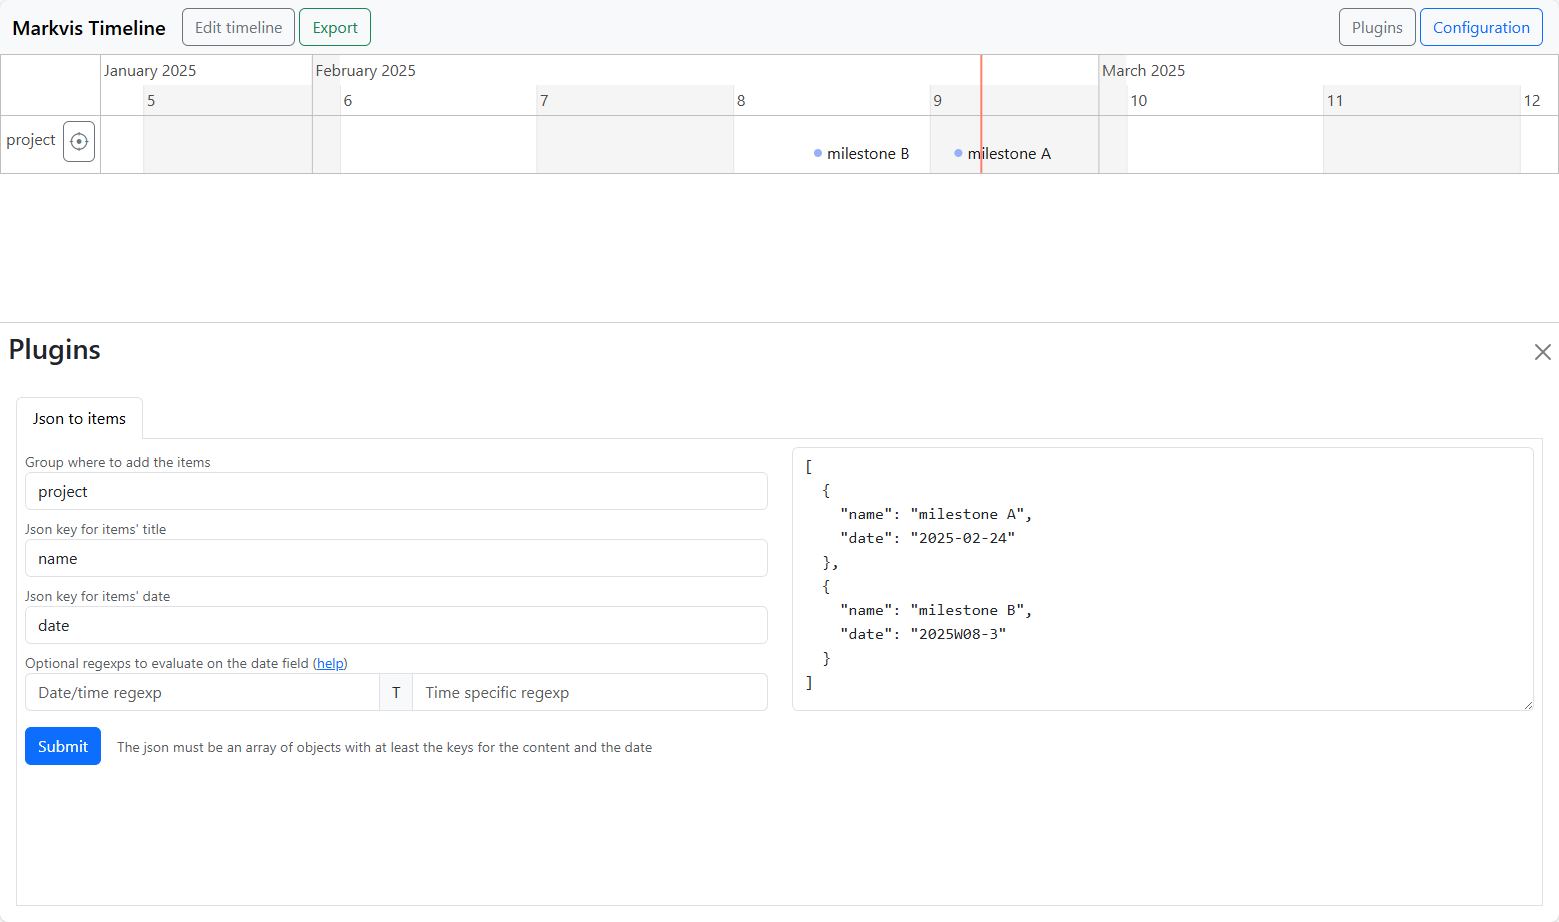
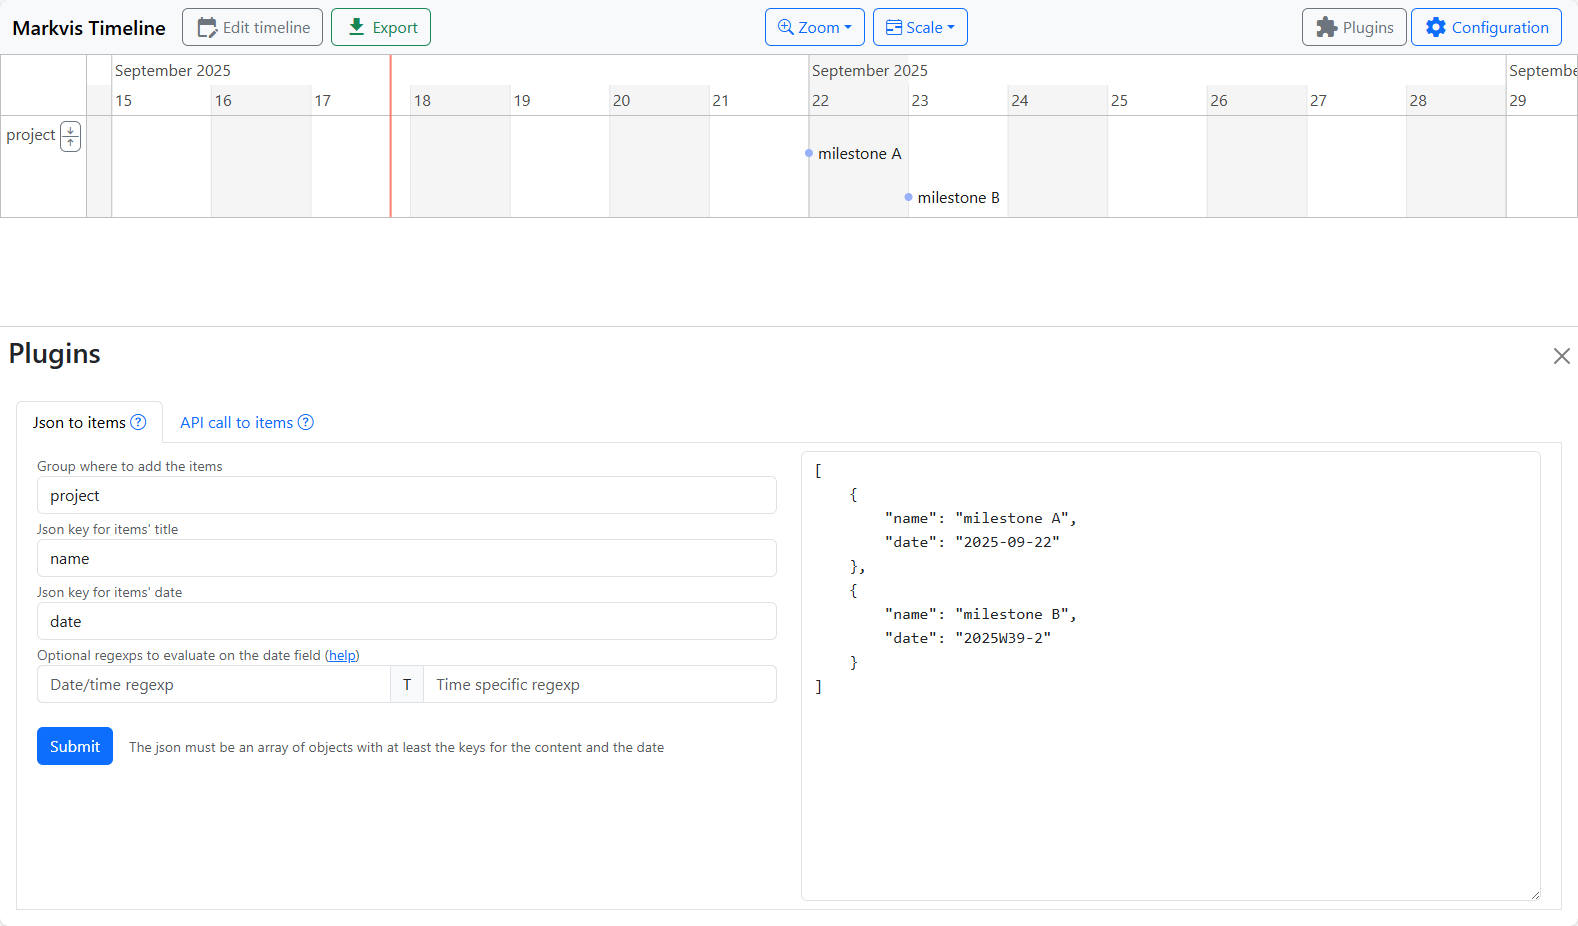
v0.13 add a top bar for easy access
squashed of the following:
- move dev mode switch to config pane
- Move zoom to the top navbar
- add some icons
- Avoid closing the menu when showWeekscale switch is fired
- add scale menu to the top bar + logic
- add outlined version of google font
- fixes for plugin API
- documentation update
- todos + cleaning
- fix defaultZoom call
- bump version

diff --git a/markvis-timeline.html b/markvis-timeline.html
@@ -1,7 +1,7 @@
 <!DOCTYPE html>
 <html>
 <head>
-    <title>Markvis-timeline v0.12</title>
+    <title>Markvis-timeline v0.13</title>
     
     <meta charset="utf-8">
     <meta name="viewport" content="width=device-width, initial-scale=1">
@@ -24,6 +24,7 @@
 
     <!-- Google fonts -->
     <link href="https://fonts.googleapis.com/icon?family=Material+Icons" rel="stylesheet">
+    <link href="https://fonts.googleapis.com/icon?family=Material+Icons+Outlined" rel="stylesheet">
 
     <style type="text/css">
         :root {
@@ -98,18 +99,41 @@
             <button class="navbar-toggler" type="button" data-bs-toggle="collapse" data-bs-target="#navbarSupportedContent" aria-controls="navbarSupportedContent" aria-expanded="false aria-label="Toggle navigation">
                 <span class="navbar-toggler-icon"></span>
             </button>
-            <div class="collapse navbar-collapse" id="navbarSupportedContent">
-                <div class="navbar-nav me-auto align-items-center gap-2">
-                    <button class="btn btn-outline-secondary" type="button" data-bs-toggle="offcanvas" data-bs-target="#drawer">Edit timeline</button>
-                    <button class="btn btn-outline-success" type="button" id="btn-export">Export</button>
-                    <div class="form-check form-switch">
-                        <input class="form-check-input" type="checkbox" role="switch" id="switch-dev-mode">
-                        <label class="form-check-label" for="switch-dev-mode">Dev mode (editable on)</label>
+            <div class="collapse navbar-collapse justify-content-between" id="navbarSupportedContent">
+                <div class="navbar-nav gap-2">
+                    <button class="btn btn-outline-secondary d-flex gap-1" type="button" data-bs-toggle="offcanvas" data-bs-target="#drawer"><span class="material-icons">edit_calendar</span> Edit timeline</button>
+                    <button class="btn btn-outline-success d-flex gap-1" type="button" id="btn-export"><span class="material-icons">download</span>Export</button>
+                </div>
+                <div class="navbar-nav gap-2">
+                    <div class="dropdown">
+                        <button class="btn btn-outline-primary dropdown-toggle" type="button" data-bs-toggle="dropdown" aria-expanded="false"><i class="bi bi-zoom-in"></i> Zoom</button>
+                        <ul class="dropdown-menu" id="menu-zoom">
+                            <li><button class="dropdown-item" type="button" id="menu_zoom_default">Default (2 weeks)</button></li>
+                            <li><button class="dropdown-item" type="button" id="menu_zoom_pi">PI (10 weeks)</button></li>
+                            <li><button class="dropdown-item" type="button" id="menu_zoom_semester">Semester</button></li>
+                            <li><button class="dropdown-item" type="button" id="menu_zoom_year">Year</button></li>
+                            <li><button class="dropdown-item" type="button" id="menu_zoom_fit">Fit all items</button></li>
+                        </ul>
+                    </div>
+                    <div class="btn-group">
+                        <!-- <button class="btn btn-primary" type="button"><i class="bi bi-calendar4-range"></i> Auto scale</button> -->
+                        <!-- <button type="button" class="btn btn-primary dropdown-toggle dropdown-toggle-split" data-bs-toggle="dropdown" aria-expanded="false"><span class="visually-hidden">Toggle Dropdown</span></button> -->
+                        <button type="button" class="btn btn-outline-primary dropdown-toggle"  data-bs-toggle="dropdown" aria-expanded="false"><i class="bi bi-calendar4-range"></i> Scale</button>
+                        <ul class="dropdown-menu" id="menu-scale">
+                            <li><button class="dropdown-item" type="button" id="menu_scale_auto">Auto</button></li>
+                            <li><button class="dropdown-item" type="button" id="menu_scale_weeks">Weeks forced</button></li>
+                            <li><button class="dropdown-item" type="button" id="menu_scale_days">Days forced</button></li>
+                            <li><hr class="dropdown-divider"></li>
+                            <li><div class="form-check form-switch mx-2">
+                                <input class="form-check-input" type="checkbox" id="weekscale" checked />
+                                <label class="form-check-label" for="weekscale" id="weekscale_label">showWeekScale</label>
+                            </div></li>
+                        </ul>
                     </div>
                 </div>
                 <div class="navbar-nav">
-                    <button class="btn btn-outline-secondary me-1" type="button" data-bs-toggle="offcanvas" data-bs-target="#drawerPlugins">Plugins</button>
-                    <button class="btn btn-outline-primary me-1" type="button" data-bs-toggle="offcanvas" data-bs-target="#drawerConfig">Configuration</button>
+                    <button class="btn btn-outline-secondary me-1 d-flex gap-1" type="button" data-bs-toggle="offcanvas" data-bs-target="#drawerPlugins"><span class="material-icons">extension</span>Plugins</button>
+                    <button class="btn btn-outline-primary me-1 d-flex gap-1" type="button" data-bs-toggle="offcanvas" data-bs-target="#drawerConfig"><span class="material-icons">settings</span>Configuration</button>
                 </div>
             </div>
         </div>
@@ -179,83 +203,9 @@
             <button type="button" class="btn-close" data-bs-dismiss="offcanvas" aria-label="Close"></button>
         </div>
         <div class="offcanvas-body">
-            <div class="d-flex gap-2 mb-2">
-                <div class="card flex-fill">
-                    <div class="card-header">Zoom configuration
-                        <div class="form-check form-switch mb-2">
-                            <input class="form-check-input" type="checkbox" id="config-autoclose" checked />
-                            <label class="form-check-label" for="config-autoclose">Auto-close</label>
-                        </div>
-                    </div>
-                    <div class="card-body">
-                        <div class="form-check">
-                            <label class="form-check-label">
-                                <input type="radio" name="zoom" class="form-check-input" value="default" checked />
-                                Default (2 weeks)
-                            </label>
-                        </div>
-                        
-                        <div class="form-check">
-                            <label class="form-check-label">
-                                <input type="radio" name="zoom" class="form-check-input" value="pi" />
-                                PI (10 weeks)
-                            </label>
-                        </div>
-
-                        <div class="form-check">
-                            <label class="form-check-label">
-                                <input type="radio" name="zoom" class="form-check-input" value="semester" />
-                                Semester (6 month)
-                            </label>
-                        </div>
-
-                        <div class="form-check">
-                            <label class="form-check-label">
-                                <input type="radio" name="zoom" class="form-check-input" value="year" />
-                                Year (12 month)
-                            </label>
-                        </div>
-
-                        <div class="form-check">
-                            <label class="form-check-label">
-                                <input type="radio" name="zoom" class="form-check-input" value="fit" />
-                                Fit all items
-                            </label>
-                        </div>
-                    </div>
-                </div>
-
-                <div class="card flex-fill">
-                    <div class="card-header">Scale configuration</div>
-                    <div class="card-body">
-                        <!-- <h5 class="card-title">Special title treatment</h5> -->
-                        <div class="form-check">
-                            <label class="form-check-label">
-                                <input type="radio" name="scale" class="form-check-input" value="auto" checked />
-                                Auto
-                            </label>
-                        </div>
-                        
-                        <div class="form-check">
-                            <label class="form-check-label">
-                                <input type="radio" name="scale" class="form-check-input" value="week" />
-                                Weeks
-                            </label>
-                        </div>
-                        
-                        <div class="form-check">
-                            <label class="form-check-label">
-                                <input type="radio" name="scale" class="form-check-input" value="day" />
-                                Days
-                            </label>
-                        </div>
-                        
-                        <div class="form-check form-switch mt-2">
-                            <input class="form-check-input" type="checkbox" id="weekscale" checked />
-                            <label class="form-check-label" for="weekscale">showWeekScale</label>
-                        </div>
-                    </div>
-                </div>
+            <div class="form-check form-switch mb-2">
+                <input class="form-check-input" type="checkbox" role="switch" id="switch-dev-mode">
+                <label class="form-check-label" for="switch-dev-mode">Dev mode (editable on)</label>
             </div>
 
             <div class="card mb-2">
@@ -307,7 +257,6 @@
                     </div>
                 </div>
             </div>
-
         </div>
     </div>
 
@@ -563,7 +512,6 @@
                     stack: true,
                     stackSubgroups: true,
                     showWeekScale: true,
-                    autoclose: true,
                     groupsLevelFoldedByDefault: 0,
                 }
 
@@ -636,15 +584,12 @@
             }
 
             defaultZoom() {
-                $("input[value='default']").click()
+                $("#menu_zoom_default").click()
             }
         }
     </script>
 
     <script type="text/javascript">
-        // For this branch
-        //  + Add a new tab in the plugins drawer
-        
         //TODO:
         //
         // + to check if we can dissociate the locale and the week starting day 
@@ -659,14 +604,12 @@
         // + add a syntax to avoid a line to be re-ordered ?
         // + Add relative date (+1d, +1w, +1m, +1y)
         
-        // Config drawer
-        // option for collapse state by default
-        // + Add a button to fold/unfold all groups
-        
         // Timeline
         // + Tooptip for group button (only display this line) ?
         // + Add a button to put the line on top ?
         // + To have a custom function (format in the options) to manage display of timeline scale
+        //     => have multiple options in the Scale menu
+        //        - days forced + weeks above
         
         // + Add a subgroup with none stacked items + syntax
         // + "Gantt" mode for a group (all lines are stacked in the defined order) + syntax
@@ -676,12 +619,16 @@
         // + change the date syntax : maybe <start>:<end> => only one date field (refactoring needed)
         
         // Icons items
-        // unify the syntax for providers : only surrounded signs
+        // unify the syntax for providers : only surrounded signs or not
         
-        // Plugins //
+        // Plugins
         // + Add a plugin to link with github gist
         // + Add a plugin to link with google drive ??? // proposed by @copilot
+        // JSON plugin : add a way to add/clear items (maybe by group ??)
+        // JSON/API : possibility to create the group if it is not there ?
         
+        // Dev mode
+        // + add possibility to rename items
         
         // + Internal refactoring for the Markvis class
         //   ++ integrate the timeline in the class
@@ -691,8 +638,11 @@
         // - icons not always displayed the first time
         // - space between icon and text too big the first time
         // => use a template ?
+        // => or with a callback event when the item appears or timeline move (see exemples)
 
         const $ = (sel) => document.querySelector(sel) // jQuery emulation
+
+        $("#weekscale_label").onclick = function(e) {e.stopPropagation()}
 
         function analyze(line) { //TODO : a mettre dans la classe Markvis
             // TODO: use regexp ?
@@ -1061,38 +1011,40 @@
 
         // TODO: integrate in Markvis class
         var timeline = new vis.Timeline(container, mks.items, mks.groups.dataset, mks.options);
-        
-        for(el of document.querySelectorAll("input[name='scale']")) {
-            el.onchange = function() {
-                const val = this.value == "auto" ? {} : {scale: this.value};
-                timeline.setOptions({ timeAxis: val });
-            };
-        }
 
         //
         // Configuration drawer callbacks
         //
 
-        $("#config-autoclose").onchange = function() {
-            mks.configuration.autoclose = this.checked
+        for(el of document.querySelectorAll("#menu-scale>li>button")) {
+            el.onclick = function() {
+                const map = {
+                    menu_scale_weeks: "week",
+                    menu_scale_days: "day",
+                }
+                timeline.setOptions({ timeAxis: {scale: map[this.id]} });
+            };
         }
 
-        for(el of document.querySelectorAll("input[name='zoom']")) {
+
+        for (el of document.querySelectorAll("#menu-zoom>li>button")) {
             el.onclick = function() {
-                if (this.value == "fit") {
-                    timeline.fit();
+                if (this.id == "menu_zoom_fit") {
+                    timeline.fit()
                 } else {
-                    const map = {default: {weeks: 2}, pi: {weeks: 10}, semester: {months: 6}, year: {years: 1}}
+                    const map = {
+                        menu_zoom_default: {weeks: 2},
+                        menu_zoom_pi: {weeks: 10},
+                        menu_zoom_semester: {months: 6},
+                        menu_zoom_year: {years: 1}
+                    }
+                    // console.log("map:", this.id, map[this.id])
                     timeline.setWindow(
                         luxon.DateTime.now().minus({days: 1}).toISO(),
-                        luxon.DateTime.now().plus(map[this.value]).toISO()
-                    );
+                        luxon.DateTime.now().plus(map[this.id]).toISO()
+                    )
                 }
-                if (mks.configuration.autoclose) {
-                    bootstrap.Offcanvas.getInstance($('#drawerConfig'))?.hide()
-                }
-
-            };
+            }
         }
 
         $('#weekscale').onchange = function() {
@@ -1250,6 +1202,8 @@
         $("#plugin-api-submit").onclick = function() {
             const url = $("#plugin-api-endpoint").value.trim()
 
+            $("#plugin-api-output").value = ""
+
             let isError = false
             
             isError |= checkEmptyField("#plugin-api-endpoint")
@@ -1269,6 +1223,8 @@
         }
 
         function insert_items_from_json(json) {
+            console.log("Response received from API:", json)
+
             const group = $("#plugin-api-group-input").value.trim()
             const content_key = $("#plugin-api-inputTitle").value.trim()
             const date_key = $("#plugin-api-inputDate").value.trim()

diff --git a/README.md b/README.md
@@ -7,18 +7,26 @@ The application is a single web-page, with all the code included in it.
 It looks like this by default
 ![Main interface empty](/doc/main_interface_empty.png)
 
+At the top bar, you can find buttons for different functions.
+- Edit timeline button opens the left drawer to edit the timeline items
+- Export button for exporting the content of the timeline in a mardown file
+- Zoom and Scale buttons for the respectives settings
+- Plugins button opens the bottom drawer with the plugins tabs
+- Configuration button opens the right drawer with the configuration options
+
 ### Edition drawer
 The button <kbd>Edit timeline</kbd> opens a drawer, on the left side, with a textarea to write the markdown that describes the elements to render on the timeline.
 ![Main interface edit timeline](/doc/main_interface_edit.png)
 
-You can adjust the size of the drawer by holding the <kbd>CTRL</kbd> key and increase/decrase the width with the right or left arrows keys.
+You can adjust the size of the drawer by holding the <kbd>ALT</kbd> key and increase/decrase the width with the right or left arrows keys.
 
 ### Configuration drawer
 The button <kbd>Configuration</kbd> opens another drawer, on the right side, to configure the timeline display.
 ![Main interface configuration](/doc/main_interface_config.png)
 
-In this drawer, you can configure the zoom, the scale, the groups and the locales.
-The auto-close button allows to close the drawer automatically as soon as an option is selected.
+In this drawer, you can configure the groups stacking, groups default folding and the locales.
+
+You also have the possibility to activate the dev mode.
 
 ### Plugins drawer
 The button <kbd>Plugins</kbd> opens a bottom drawer and contain a tab list where each tab is a plugin.
@@ -171,7 +179,7 @@ You need to fill the different fields in order to have the items generated:
 
 <details>
 <summary>History</summary>
- 
+
 v0.1 first usable version\
 v0.2 add support for icons and colors\
 v0.3 add support for subgroups\
@@ -181,7 +189,9 @@ v0.6 fixes and enhancements\
 v0.7 add possibility to resize the content drawer\
 v0.8 add possibility to set a color for an entire group\
 v0.9 enhance configuration drawer\
-v0.10 add folded group options in configuration
-v0.11 add dev mode (editable items)
-v0.12 add API plugin
+v0.10 add folded group options in configuration\
+v0.11 add dev mode (editable items)\
+v0.12 add API plugin\
+v0.13 move zoom and scale settings to top bar
+
 </details>
